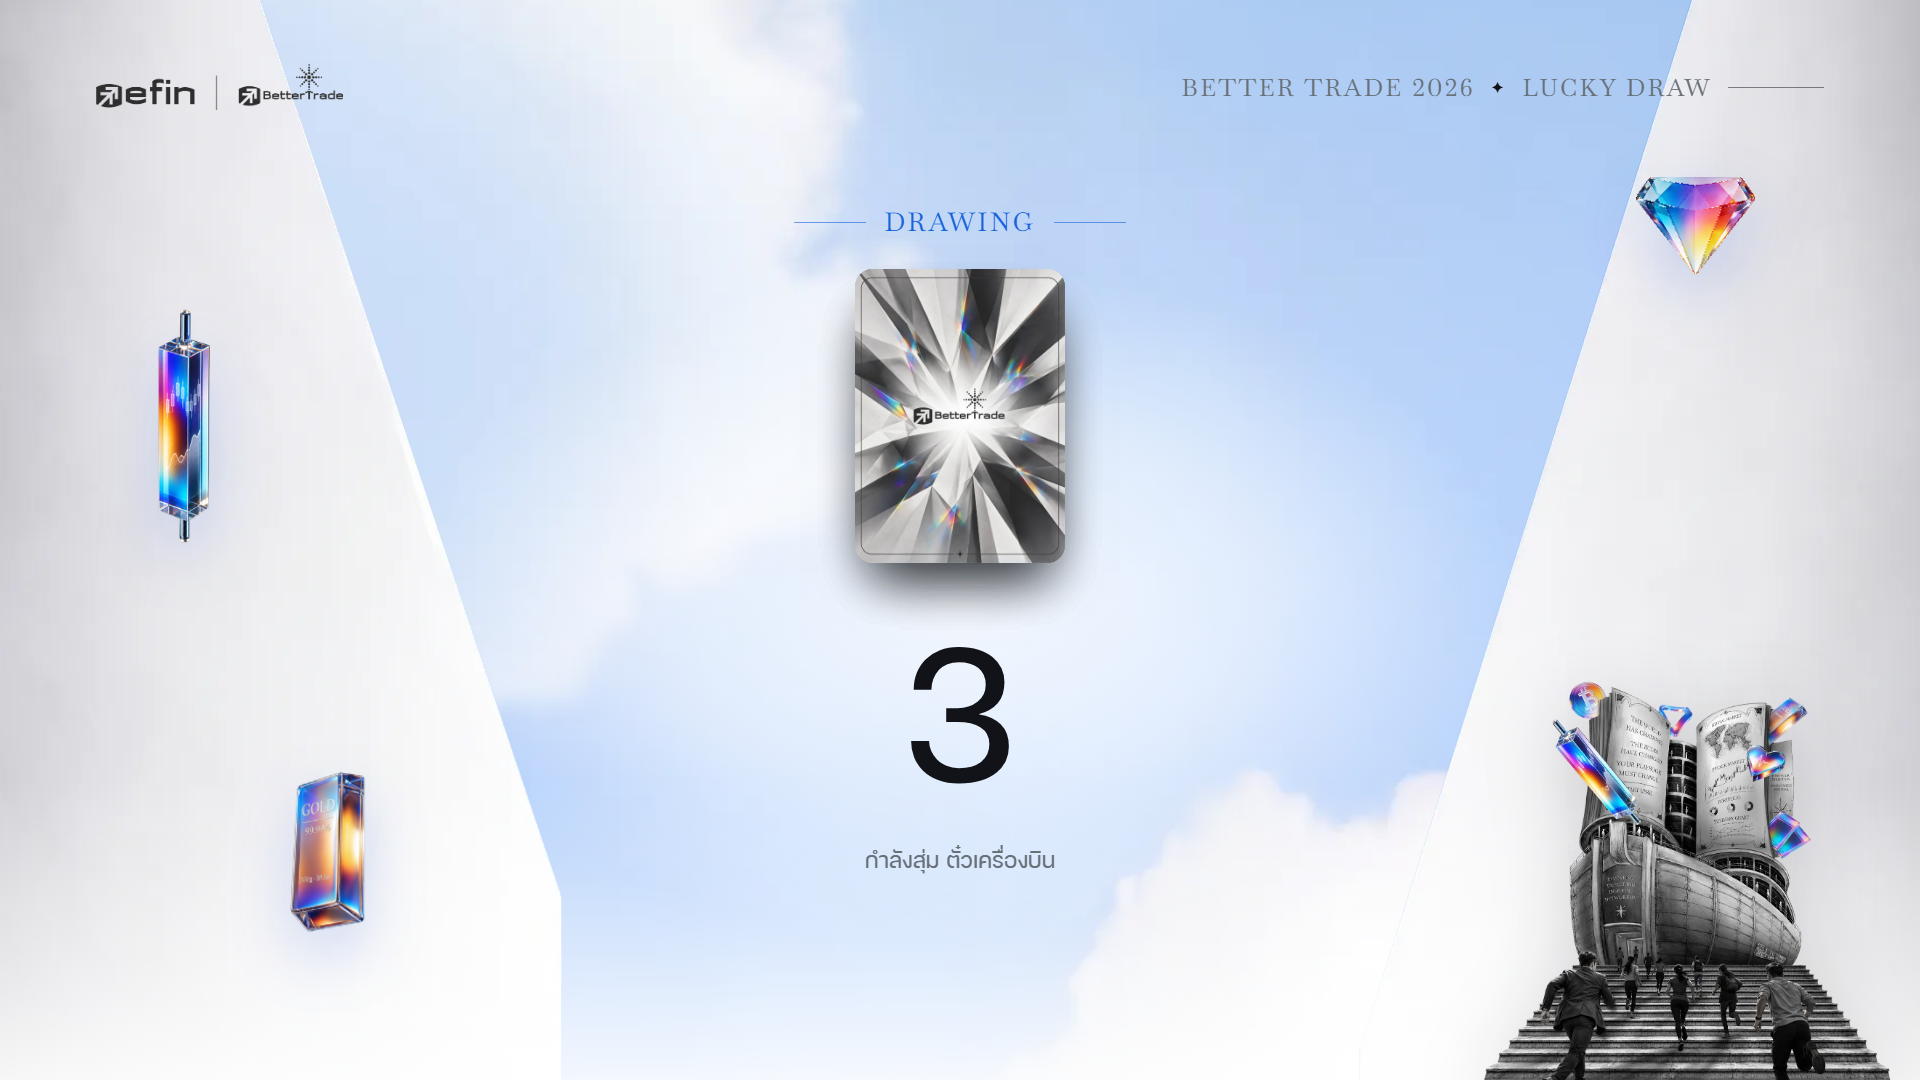
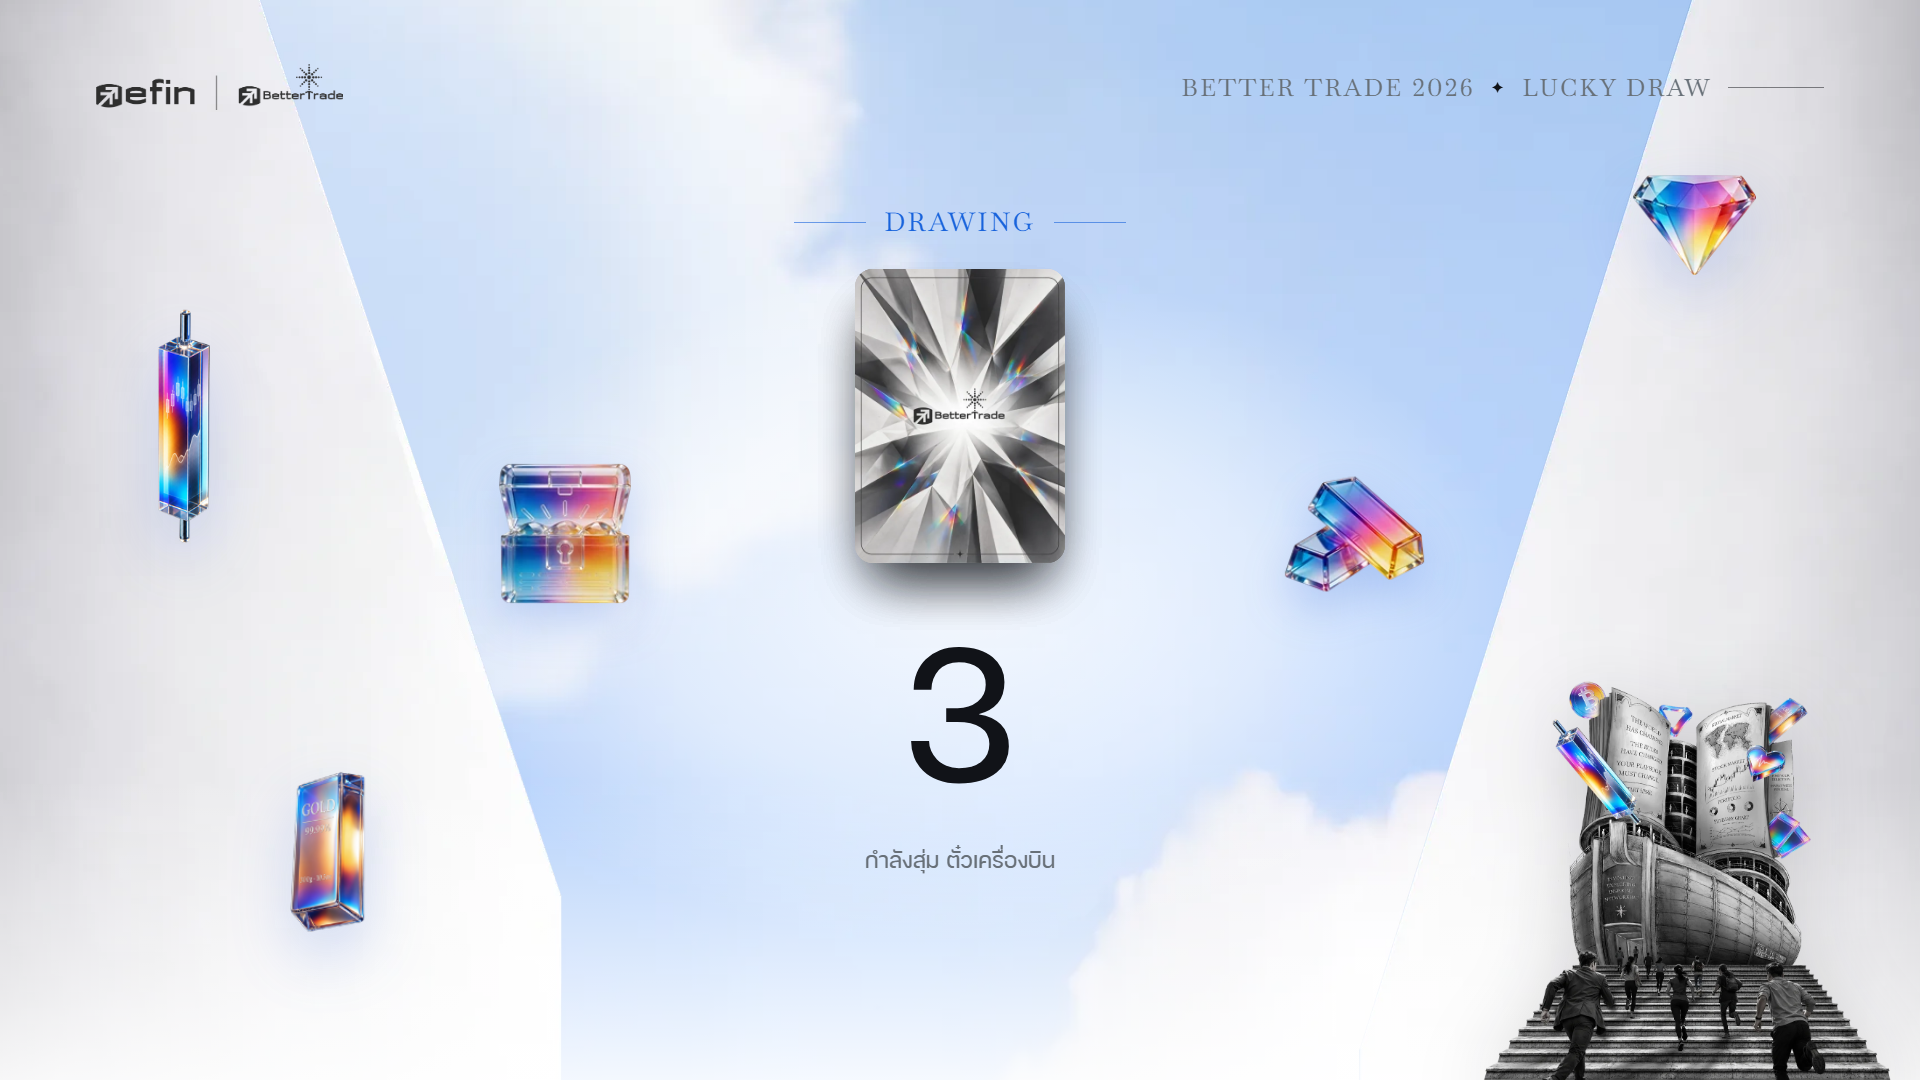
Add gift and prize pieces to three scenes, drop draw style C
- Prize: gift box leads above the prize name
- Drawing A: chest and gold bars flank the deck
- Reveal: gift, coin, chest and gold bars pop in around the content
- Sharper diamond on the wall; remove the rings draw style and its preview
- Regenerate previews

Changed region(s): [[0.25, 0.4278, 0.3438, 0.5806], [0.6562, 0.4278, 0.75, 0.55], [0.8438, 0.1528, 0.9062, 0.2444]]

diff --git a/show-screen.html b/show-screen.html
@@ -73,7 +73,8 @@
 
   /* prize */
   .prize h2,.idle h2,.board h2{font-weight:600;font-size:150px;line-height:1.05;letter-spacing:-.01em}
-  .prize h2{margin:28px 0 22px}
+  .prize h2{margin:20px 0 22px}
+  .prize-gift{width:200px;height:200px;margin-bottom:6px;filter:drop-shadow(0 22px 26px rgba(63,111,224,.28));animation:bob 5s ease-in-out infinite}
   .prize .qty{font-size:34px;color:var(--ink-2)}
   .prize .qty b{font-weight:500;font-size:54px;color:var(--ink);margin:0 6px}
   /* same DNA as the winners-board tile: white glass, hairline border, bold ink value, blue-ink label */
@@ -91,7 +92,7 @@
   .drawing .deck{width:210px;margin:30px 0 18px}
   .count{font-size:260px;font-weight:500;line-height:1;min-height:260px;color:var(--ink)}
   .dv{display:none;flex-direction:column;align-items:center}
-  body.draw-A .dv-A,body.draw-B .dv-B,body.draw-C .dv-C{display:flex}
+  body.draw-A .dv-A,body.draw-B .dv-B{display:flex}
 
   /* B: name reel, 3 visible rows, the centre row is the pick */
   .reel{position:relative;width:1240px;height:540px;margin:34px 0 10px;overflow:hidden;
@@ -100,24 +101,13 @@
   .reel-in{position:absolute;left:0;right:0;top:0;will-change:transform}
   .reel-in div{height:180px;line-height:180px;font-size:112px;font-weight:600;white-space:nowrap;color:var(--ink-3);opacity:.55}
   .reel-in div.hit{color:var(--ink);opacity:1}
+  /* A: prize pieces flank the shuffling deck (outside its +-120px sweep) */
+  .flank{position:absolute;top:210px;width:170px;height:170px;filter:drop-shadow(0 18px 22px rgba(63,111,224,.25));animation:bob 6s ease-in-out infinite}
+  .flank.l{left:calc(50% - 480px)}
+  .flank.r{left:calc(50% + 310px);animation-delay:-3s}
+  .dv-A{position:relative}
   .dv-B .count{font-size:140px;min-height:140px}
 
-  /* C: rim-palette rings */
-  .orb{position:relative;width:640px;height:640px;margin:20px 0 10px;display:flex;align-items:center;justify-content:center}
-  .orb .count{position:relative;z-index:2;font-size:280px;min-height:0}
-  .ring{position:absolute;border-radius:50%;
-    background:conic-gradient(from 0deg,#00d4fe,#1f87e6,#113cf3,#722df4,#e63bd8,#f79319,#00d4fe);
-    -webkit-mask:radial-gradient(farthest-side,transparent calc(100% - 10px),#000 calc(100% - 9px));mask:radial-gradient(farthest-side,transparent calc(100% - 10px),#000 calc(100% - 9px));
-    animation:spin var(--t,6s) linear infinite;transition:opacity .4s,transform .6s}
-  .ring.r1{inset:0;--t:7s}
-  .ring.r2{inset:56px;--t:4.5s;animation-direction:reverse;opacity:.8}
-  .ring.r3{inset:112px;--t:3s;opacity:.6}
-  .glow{position:absolute;inset:150px;border-radius:50%;background:radial-gradient(circle,rgba(255,255,255,.95),rgba(101,152,255,.25) 60%,transparent 72%)}
-  @keyframes spin{to{transform:rotate(360deg)}}
-  .orb.fast .ring.r1{--t:2.4s}.orb.fast .ring.r2{--t:1.6s}.orb.fast .ring.r3{--t:1s}
-  .orb.burst .ring{transform:scale(1.35);opacity:0}
-  .orb.burst .glow{animation:flash .5s ease-out forwards}
-  @keyframes flash{to{transform:scale(2.6);opacity:0}}
   .count.tick{animation:tick .9s cubic-bezier(.2,.8,.2,1)}
   @keyframes tick{from{transform:scale(1.35);opacity:0;color:var(--blue-ink)}to{transform:none;opacity:1}}
   .drawing .sub{font-size:30px;color:var(--ink-2);margin-top:4px}
@@ -127,6 +117,10 @@
   .redraw p{font-size:34px;color:var(--ink-2);margin-top:16px}
 
   /* reveal */
+  .drop{position:absolute;opacity:0;transform:scale(.4) translateY(36px);
+    transition:opacity .6s ease calc(var(--d) * 1s),transform .9s cubic-bezier(.2,1.3,.3,1) calc(var(--d) * 1s)}
+  .scene.on .drop{opacity:1;transform:none}
+  .drop img{display:block;width:100%;filter:drop-shadow(0 16px 20px rgba(63,111,224,.25));animation:bob 5.5s ease-in-out infinite;animation-delay:calc(var(--d) * -4s)}
   /* reveal: one centred column, no character card */
   .who{width:1400px;display:flex;flex-direction:column;align-items:center;text-align:center}
   .who .crown{width:92px;height:92px;display:block;filter:drop-shadow(0 10px 16px rgba(63,111,224,.3))}
@@ -187,7 +181,7 @@
 
   <img class="el candle" src="prize-assets/img/candle.png" alt="">
   <img class="el gold" src="prize-assets/img/gold.png" alt="">
-  <img class="el gem" src="prize-assets/img/diamond.png" alt="">
+  <img class="el gem" src="prize-assets/img/diamond-icon.webp" alt="">
 
   <div class="top">
     <img src="prize-assets/img/efinBT.png" alt="efin | BetterTrade">
@@ -202,6 +196,7 @@
   </section>
 
   <section class="scene prize" data-scene="prize">
+    <img class="prize-gift" src="prize-assets/img/gift.webp" alt="">
     <div class="k">Next Prize</div>
     <h2 id="pName"></h2>
     <div class="qty">รางวัลนี้มีทั้งหมด <b id="pQty"></b> รางวัล</div>
@@ -216,6 +211,8 @@
 
     <!-- A: shuffling deck of back cards -->
     <div class="dv dv-A">
+      <img class="flank l" src="prize-assets/img/chest.webp" alt="">
+      <img class="flank r" src="prize-assets/img/gold-bars.webp" alt="">
       <div class="deck">
         <img src="prize-assets/cards/back.webp" alt="" style="--i:0">
         <img src="prize-assets/cards/back.webp" alt="" style="--i:1">
@@ -230,14 +227,6 @@
       <div class="count"></div>
     </div>
 
-    <!-- C: energy rings around the countdown, burst at zero -->
-    <div class="dv dv-C">
-      <div class="orb" id="orb">
-        <i class="ring r1"></i><i class="ring r2"></i><i class="ring r3"></i><i class="glow"></i>
-        <div class="count"></div>
-      </div>
-    </div>
-
     <div class="sub" id="dSub"></div>
   </section>
 
@@ -248,6 +237,10 @@
   </section>
 
   <section class="scene reveal" data-scene="reveal">
+    <span class="drop" style="left:640px;top:250px;width:150px;--d:.5"><img src="prize-assets/img/gift.webp" alt=""></span>
+    <span class="drop" style="left:1140px;top:262px;width:128px;--d:.65"><img src="prize-assets/img/coin.webp" alt=""></span>
+    <span class="drop" style="left:600px;top:800px;width:124px;--d:.8"><img src="prize-assets/img/chest.webp" alt=""></span>
+    <span class="drop" style="left:1190px;top:812px;width:132px;--d:.95"><img src="prize-assets/img/gold-bars.webp" alt=""></span>
     <div class="who">
       <img class="crown" src="prize-assets/img/ICON_CROWN_PNG.png" alt="">
       <div class="lucky"><i>✦</i>ผู้โชคดี<i>✦</i></div>
@@ -282,7 +275,6 @@
   <span class="sep"></span>
   <button data-draw="A" title="V">สุ่ม A ไพ่</button>
   <button data-draw="B">สุ่ม B รายชื่อ</button>
-  <button data-draw="C">สุ่ม C วงแหวน</button>
   <span class="sep"></span>
   <button id="demoFs" title="F">เต็มจอ</button>
 </div>
@@ -323,8 +315,8 @@ const later = (fn, ms) => timers.push(setTimeout(fn, ms));
 let reelRaf = 0;
 function clearTimers(){ timers.forEach(clearTimeout); timers = []; cancelAnimationFrame(reelRaf); }
 
-// ---- drawing style: A cards / B name reel / C rings (V cycles, ?draw=B picks) ----
-const STYLES = ["A", "B", "C"];
+// ---- drawing style: A cards / B name reel (V cycles, ?draw=B picks) ----
+const STYLES = ["A", "B"];
 let drawStyle = "A";
 function setDraw(x){
   drawStyle = STYLES.includes(x) ? x : "A";
@@ -373,14 +365,9 @@ function showPrize(st){
 function showDrawing(st, done){
   go("drawing");
   $("#dSub").textContent = `กำลังสุ่ม ${st.prize.name}`;
-  const secs = Math.max(1, st.countdown || 5), els = document.querySelectorAll(".count"), orb = $("#orb");
-  orb.classList.remove("fast", "burst");
+  const secs = Math.max(1, st.countdown || 5), els = document.querySelectorAll(".count");
   if(drawStyle === "B") startReel(st, secs * 1000);
   if(STILL){ els.forEach(el => el.textContent = Math.min(3, secs)); return; }
-  if(drawStyle === "C"){
-    later(() => orb.classList.add("fast"), Math.max(0, (secs - 2) * 1000));
-    later(() => orb.classList.add("burst"), secs * 1000 - 200);
-  }
   for(let i = 0; i < secs; i++){
     later(() => {
       els.forEach(el => { el.textContent = secs - i; el.classList.remove("tick"); void el.offsetWidth; el.classList.add("tick"); });

diff --git a/index.html b/index.html
@@ -68,7 +68,7 @@
       <div><dt><kbd>Space</kbd> <kbd>→</kbd></dt><dd>ฉากถัดไป (<kbd>←</kbd> ย้อนกลับ)</dd></div>
       <div><dt><kbd>[</kbd> <kbd>]</kbd></dt><dd>เปลี่ยนรางวัล</dd></div>
       <div><dt><kbd>R</kbd></dt><dd>สุ่มใหม่</dd></div>
-      <div><dt><kbd>V</kbd></dt><dd>สลับสไตล์การสุ่ม A / B / C</dd></div>
+      <div><dt><kbd>V</kbd></dt><dd>สลับสไตล์การสุ่ม A / B</dd></div>
       <div><dt><kbd>H</kbd></dt><dd>โชว์หรือซ่อนแถบปุ่ม</dd></div>
       <div><dt><kbd>F</kbd></dt><dd>เต็มจอ</dd></div>
       <div><dt><kbd>G</kbd></dt><dd>เส้น safe area 16:9</dd></div>

diff --git a/prize-assets/scenes.js b/prize-assets/scenes.js
@@ -5,7 +5,6 @@ window.SCENES = [
   { group: "main", id: "prize",      title: "ประกาศรางวัล",          q: "scene=prize" },
   { group: "main", id: "drawing-a",  title: "กำลังสุ่ม · A ไพ่",      q: "scene=drawing&draw=A" },
   { group: "main", id: "drawing-b",  title: "กำลังสุ่ม · B รายชื่อ",   q: "scene=drawing&draw=B" },
-  { group: "main", id: "drawing-c",  title: "กำลังสุ่ม · C วงแหวน",   q: "scene=drawing&draw=C" },
   { group: "main", id: "reveal",     title: "ผู้โชคดี",               q: "scene=reveal" },
   { group: "main", id: "board",      title: "ตารางผู้ชนะ",            q: "scene=board" },
 
